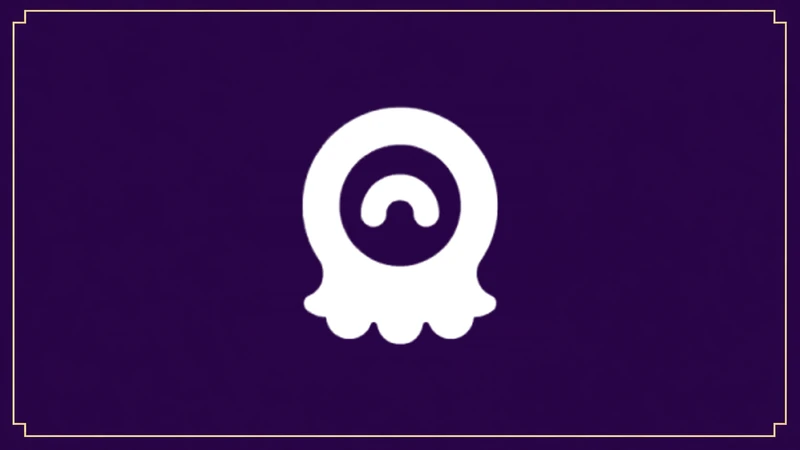
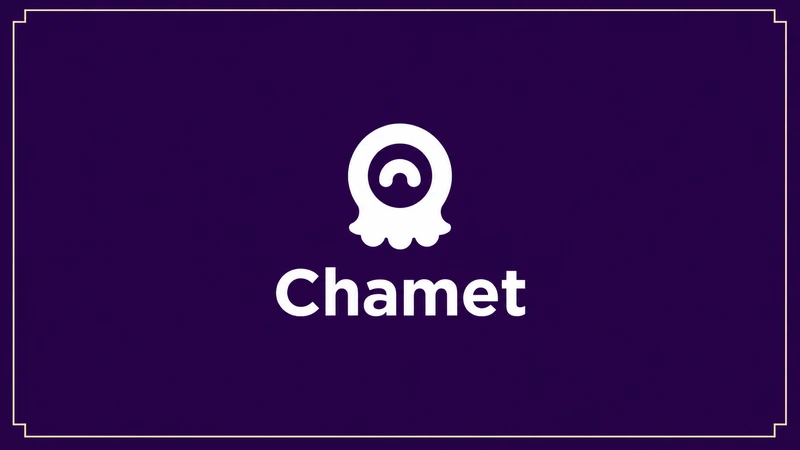
Add files via upload

diff --git a/index.html b/index.html
@@ -236,7 +236,7 @@ h1,h2,#special-request .special-request h3{min-width:0;max-width:100%;width:100%
 </div></header>
 <main>
 <section class="hero"><div class="wrap hero-content"><span class="eyebrow">TOPUPMOROCCO</span><h1><span data-ar="شحن الألعاب والبطاقات الرقمية" data-fr="Recharge de jeux et cartes digitales">شحن الألعاب والبطاقات الرقمية</span></h1><p><span data-ar="اختر المنتج والباقة، ثم أرسل الطلب مباشرة عبر واتساب أو تلغرام. خدمة سريعة وطرق دفع متنوعة." data-fr="Choisissez le produit et l’offre, puis envoyez votre commande via WhatsApp ou Telegram. Service rapide et plusieurs moyens de paiement.">اختر المنتج والباقة، ثم أرسل الطلب مباشرة عبر واتساب أو تلغرام. خدمة سريعة وطرق دفع متنوعة.</span></p><div class="hero-actions"><a class="primary" href="#products"><span data-ar="مشاهدة المنتجات" data-fr="Voir les produits">مشاهدة المنتجات</span></a></div></div></section>
-<section class="section" id="products"><div class="wrap"><div class="tm-proof"><a class="tm-proof-link" href="https://www.instagram.com/s/aGlnaGxpZ2h0OjE4MDQ0MzUwMDUyNjA0MjIy?igsi=OXU3N3lvbHhiemw0" target="_blank" rel="noopener noreferrer"><span class="tm-proof-label"><span class="tm-proof-icon"><svg viewBox="0 0 24 24" fill="none" stroke="currentColor" stroke-width="1.7" aria-hidden="true"><rect x="3" y="3" width="18" height="18" rx="5"/><circle cx="12" cy="12" r="4"/><circle cx="17.5" cy="6.5" r=".8" fill="currentColor" stroke="none"/></svg></span><span class="tm-proof-copy"><strong>طلبات زبنائنا المنجزة</strong></span></span><span class="tm-proof-cta">مشاهدة</span></a><a class="tm-orders-note" href="https://www.instagram.com/s/aGlnaGxpZ2h0OjE4MDQ0MzUwMDUyNjA0MjIy?igsi=OXU3N3lvbHhiemw0" target="_blank" rel="noopener noreferrer">اضغط هنا لمشاهدة بعض الطلبات المنفذة على صفحتنا في انستغرام</a></div><div class="heading"><em><span data-ar="خدماتنا" data-fr="Nos services">خدماتنا</span></em><h2><span data-ar="المنتجات المتاحة" data-fr="Produits disponibles">المنتجات المتاحة</span></h2><p><span data-ar="اضغط على المنتج لعرض الأسعار والطلب." data-fr="Cliquez sur un produit pour voir les prix et commander.">اضغط على المنتج لعرض الأسعار والطلب.</span></p></div><nav class="catalog-category-nav" aria-label="أقسام المنتجات"><a href="#topups"><span class="catalog-category-icon" aria-hidden="true">🎮</span><span data-ar="شحن الألعاب" data-fr="Recharges">شحن الألعاب</span></a><a href="#gift-cards"><span class="catalog-category-icon" aria-hidden="true">🎁</span><span data-ar="بطاقات الهدايا" data-fr="Cartes cadeaux">بطاقات الهدايا</span></a><a href="#game-codes"><span class="catalog-category-icon" aria-hidden="true">🔑</span><span data-ar="أكواد الألعاب" data-fr="Codes de jeux">أكواد الألعاب</span></a></nav><div class="search"><span>⌕</span><input aria-label="البحث عن منتج / Rechercher un produit" data-placeholder-ar="ابحث عن منتج..." data-placeholder-fr="Rechercher un produit..." id="search" placeholder="ابحث عن منتج..." type="search"/></div><p class="hidden" id="none" style="text-align:center;color:#ffc83d"><span data-ar="لا توجد منتجات مطابقة." data-fr="Aucun produit correspondant.">لا توجد منتجات مطابقة.</span></p><section class="catalog-category" id="topups" aria-labelledby="topupsTitle"><div class="heading catalog-section-heading"><h2 id="topupsTitle"><span data-ar="شحن الألعاب والتطبيقات" data-fr="Recharges de jeux et applications">شحن الألعاب والتطبيقات</span></h2></div><div class="grid" id="grid"><a aria-label="عرض باقات شحن Free Fire" class="card ff" data-search="free fire diamonds فري فاير جواهر" href="free-fire.html"><div class="card-top"><img alt="شحن جواهر فري فاير في المغرب - TopUpMorocco" class="product-art" decoding="async" loading="lazy" src="free-fire-800.webp" width="800" height="450" data-product-logo="free-fire"/></div><div class="card-body"><h3>Free Fire Diamonds</h3><p><span data-ar="شحن الجواهر مباشرة عن طريق ID اللاعب." data-fr="Recharge directe des diamants avec l’ID du joueur.">شحن الجواهر مباشرة عن طريق ID اللاعب.</span></p><span class="card-link"><span data-ar="عرض الباقات" data-fr="Voir les packs">عرض الباقات</span></span></div></a><a aria-label="Yalla Ludo" class="card yalla-ludo" data-search="Yalla Ludo Gold Diamonds يلا لودو ذهب ألماس شحن ID" href="yalla-ludo.html"><div class="card-top"><img alt="Yalla Ludo - TopUpMorocco" class="product-art" data-product-logo="yalla-ludo" decoding="async" height="450" loading="lazy" src="yalla-ludo-800.webp" width="800"/></div><div class="card-body"><h3>Yalla Ludo</h3><p>شحن الذهب والألماس عن طريق ID.</p><span class="card-link"><span data-ar="عرض الباقات" data-fr="Voir les packs">عرض الباقات</span></span></div></a><a aria-label="Chamet" class="card chamet" data-search="chamet diamonds diamants شاميت شامت ألماس الماس جواهر شحن ID" href="chamet.html"><div class="card-top"><img alt="Chamet - TopUpMorocco" class="product-art" data-product-logo="chamet" decoding="async" height="450" loading="lazy" src="chamet-800.webp" width="800"/></div><div class="card-body"><h3>Chamet</h3><p>شحن ألماس Chamet عبر معرّف الحساب.</p><span class="card-link"><span data-ar="عرض الباقات" data-fr="Voir les packs">عرض الباقات</span></span></div></a><a aria-label="MICO" class="card mico" data-search="mico diamonds pièces ميكو عملات شحن ID" href="mico.html"><div class="card-top"><img alt="MICO - TopUpMorocco" class="product-art" data-product-logo="mico" decoding="async" height="450" loading="lazy" src="mico-800.webp" width="800"/></div><div class="card-body"><h3>MICO</h3><p>شحن عملات MICO عبر معرّف الحساب.</p><span class="card-link"><span data-ar="عرض الباقات" data-fr="Voir les packs">عرض الباقات</span></span></div></a><a aria-label="شحن Monster Hunter Outlanders" class="card monster-hunter-outlanders" data-search="Monster Hunter Outlanders MHO مونستر هانتر اوتلاندرز شحن" href="monster-hunter-outlanders.html"><div class="card-top"><img alt="Monster Hunter Outlanders - TopUpMorocco" class="product-art" decoding="async" loading="lazy" src="monster-hunter-outlanders-800.webp" width="800" height="450"/></div></a><a class="card coc" data-search="Clash of Clans Gems Supercell ID كلاش اوف كلانس جواهر شحن" href="clash-of-clans.html" aria-label="Clash of Clans"><div class="card-top"><img alt="Clash of Clans - TopUpMorocco" class="product-art" decoding="async" loading="lazy" src="clash-of-clans-800.webp" width="800" height="450"/></div></a><a class="card brawl" data-search="Brawl Stars Gemmes Gems Pass Brawl Pass Plus Pro Pass Supercell ID براول ستارز جواهر شحن" href="brawl-stars.html" aria-label="Brawl Stars"><div class="card-top"><img alt="Brawl Stars - TopUpMorocco" class="product-art" decoding="async" loading="lazy" src="brawl-stars-800.webp?v=3" width="800" height="450"/></div></a><a class="card kingshot" data-search="Kingshot Gold Player ID كينج شوت كينغشوت ذهب شحن" href="kingshot.html" aria-label="Kingshot"><div class="card-top"><img alt="Kingshot - TopUpMorocco" class="product-art" decoding="async" loading="lazy" src="kingshot-800.webp" width="800" height="450"/></div></a><a class="card lords" data-search="Lords Mobile Diamonds Weekly Monthly Diamond Pass IGG ID لوردس موبايل جواهر شحن اشتراك" href="lords-mobile.html" aria-label="Lords Mobile"><div class="card-top"><img alt="Lords Mobile - TopUpMorocco" class="product-art" decoding="async" loading="lazy" src="lords-mobile-800.webp" width="800" height="450"/></div></a><a class="card sugo" data-search="SUGO Online Chat Party Coins سوجو سوغو عملات شحن" href="sugo.html" aria-label="SUGO – Online Chat Party"><div class="card-top"><img alt="SUGO Online Chat Party - TopUpMorocco" class="product-art" decoding="async" loading="lazy" src="sugo-800.webp" width="800" height="450"/></div></a><a class="card honkai" data-search="Honkai Star Rail Oneiric Shard Express Supply Pass Global هونكاي ستار ريل شحن" href="honkai-star-rail.html" aria-label="Honkai: Star Rail Global"><div class="card-top"><img alt="Honkai: Star Rail Global - TopUpMorocco" class="product-art" decoding="async" loading="lazy" src="honkai-star-rail-800.webp" width="800" height="450"/></div></a>
+<section class="section" id="products"><div class="wrap"><div class="tm-proof"><a class="tm-proof-link" href="https://www.instagram.com/s/aGlnaGxpZ2h0OjE4MDQ0MzUwMDUyNjA0MjIy?igsi=OXU3N3lvbHhiemw0" target="_blank" rel="noopener noreferrer"><span class="tm-proof-label"><span class="tm-proof-icon"><svg viewBox="0 0 24 24" fill="none" stroke="currentColor" stroke-width="1.7" aria-hidden="true"><rect x="3" y="3" width="18" height="18" rx="5"/><circle cx="12" cy="12" r="4"/><circle cx="17.5" cy="6.5" r=".8" fill="currentColor" stroke="none"/></svg></span><span class="tm-proof-copy"><strong>طلبات زبنائنا المنجزة</strong></span></span><span class="tm-proof-cta">مشاهدة</span></a><a class="tm-orders-note" href="https://www.instagram.com/s/aGlnaGxpZ2h0OjE4MDQ0MzUwMDUyNjA0MjIy?igsi=OXU3N3lvbHhiemw0" target="_blank" rel="noopener noreferrer">اضغط هنا لمشاهدة بعض الطلبات المنفذة على صفحتنا في انستغرام</a></div><div class="heading"><em><span data-ar="خدماتنا" data-fr="Nos services">خدماتنا</span></em><h2><span data-ar="المنتجات المتاحة" data-fr="Produits disponibles">المنتجات المتاحة</span></h2><p><span data-ar="اضغط على المنتج لعرض الأسعار والطلب." data-fr="Cliquez sur un produit pour voir les prix et commander.">اضغط على المنتج لعرض الأسعار والطلب.</span></p></div><nav class="catalog-category-nav" aria-label="أقسام المنتجات"><a href="#topups"><span class="catalog-category-icon" aria-hidden="true">🎮</span><span data-ar="شحن الألعاب" data-fr="Recharges">شحن الألعاب</span></a><a href="#gift-cards"><span class="catalog-category-icon" aria-hidden="true">🎁</span><span data-ar="بطاقات الهدايا" data-fr="Cartes cadeaux">بطاقات الهدايا</span></a><a href="#game-codes"><span class="catalog-category-icon" aria-hidden="true">🔑</span><span data-ar="أكواد الألعاب" data-fr="Codes de jeux">أكواد الألعاب</span></a></nav><div class="search"><span>⌕</span><input aria-label="البحث عن منتج / Rechercher un produit" data-placeholder-ar="ابحث عن منتج..." data-placeholder-fr="Rechercher un produit..." id="search" placeholder="ابحث عن منتج..." type="search"/></div><p class="hidden" id="none" style="text-align:center;color:#ffc83d"><span data-ar="لا توجد منتجات مطابقة." data-fr="Aucun produit correspondant.">لا توجد منتجات مطابقة.</span></p><section class="catalog-category" id="topups" aria-labelledby="topupsTitle"><div class="heading catalog-section-heading"><h2 id="topupsTitle"><span data-ar="شحن الألعاب والتطبيقات" data-fr="Recharges de jeux et applications">شحن الألعاب والتطبيقات</span></h2></div><div class="grid" id="grid"><a aria-label="عرض باقات شحن Free Fire" class="card ff" data-search="free fire diamonds فري فاير جواهر" href="free-fire.html"><div class="card-top"><img alt="شحن جواهر فري فاير في المغرب - TopUpMorocco" class="product-art" decoding="async" loading="lazy" src="free-fire-800.webp" width="800" height="450" data-product-logo="free-fire"/></div><div class="card-body"><h3>Free Fire Diamonds</h3><p><span data-ar="شحن الجواهر مباشرة عن طريق ID اللاعب." data-fr="Recharge directe des diamants avec l’ID du joueur.">شحن الجواهر مباشرة عن طريق ID اللاعب.</span></p><span class="card-link"><span data-ar="عرض الباقات" data-fr="Voir les packs">عرض الباقات</span></span></div></a><a aria-label="Yalla Ludo" class="card yalla-ludo" data-search="Yalla Ludo Gold Diamonds يلا لودو ذهب ألماس شحن ID" href="yalla-ludo.html"><div class="card-top"><img alt="Yalla Ludo - TopUpMorocco" class="product-art" data-product-logo="yalla-ludo" decoding="async" height="450" loading="lazy" src="yalla-ludo-800.webp" width="800"/></div><div class="card-body"><h3>Yalla Ludo</h3><p>شحن الذهب والألماس عن طريق ID.</p><span class="card-link"><span data-ar="عرض الباقات" data-fr="Voir les packs">عرض الباقات</span></span></div></a><a aria-label="Chamet" class="card chamet" data-search="chamet diamonds diamants شاميت شامت ألماس الماس جواهر شحن ID" href="chamet.html"><div class="card-top"><img alt="Chamet - TopUpMorocco" class="product-art" data-product-logo="chamet" decoding="async" height="450" loading="lazy" src="chamet-800.webp" width="800"/></div><div class="card-body"><h3>Chamet</h3><p>شحن ألماس Chamet عبر معرّف الحساب.</p><span class="card-link"><span data-ar="عرض الباقات" data-fr="Voir les packs">عرض الباقات</span></span></div></a><a aria-label="شحن Monster Hunter Outlanders" class="card monster-hunter-outlanders" data-search="Monster Hunter Outlanders MHO مونستر هانتر اوتلاندرز شحن" href="monster-hunter-outlanders.html"><div class="card-top"><img alt="Monster Hunter Outlanders - TopUpMorocco" class="product-art" decoding="async" loading="lazy" src="monster-hunter-outlanders-800.webp" width="800" height="450"/></div></a><a class="card coc" data-search="Clash of Clans Gems Supercell ID كلاش اوف كلانس جواهر شحن" href="clash-of-clans.html" aria-label="Clash of Clans"><div class="card-top"><img alt="Clash of Clans - TopUpMorocco" class="product-art" decoding="async" loading="lazy" src="clash-of-clans-800.webp" width="800" height="450"/></div></a><a class="card brawl" data-search="Brawl Stars Gemmes Gems Pass Brawl Pass Plus Pro Pass Supercell ID براول ستارز جواهر شحن" href="brawl-stars.html" aria-label="Brawl Stars"><div class="card-top"><img alt="Brawl Stars - TopUpMorocco" class="product-art" decoding="async" loading="lazy" src="brawl-stars-800.webp?v=3" width="800" height="450"/></div></a><a class="card kingshot" data-search="Kingshot Gold Player ID كينج شوت كينغشوت ذهب شحن" href="kingshot.html" aria-label="Kingshot"><div class="card-top"><img alt="Kingshot - TopUpMorocco" class="product-art" decoding="async" loading="lazy" src="kingshot-800.webp" width="800" height="450"/></div></a><a class="card lords" data-search="Lords Mobile Diamonds Weekly Monthly Diamond Pass IGG ID لوردس موبايل جواهر شحن اشتراك" href="lords-mobile.html" aria-label="Lords Mobile"><div class="card-top"><img alt="Lords Mobile - TopUpMorocco" class="product-art" decoding="async" loading="lazy" src="lords-mobile-800.webp" width="800" height="450"/></div></a><a class="card sugo" data-search="SUGO Online Chat Party Coins سوجو سوغو عملات شحن" href="sugo.html" aria-label="SUGO – Online Chat Party"><div class="card-top"><img alt="SUGO Online Chat Party - TopUpMorocco" class="product-art" decoding="async" loading="lazy" src="sugo-800.webp" width="800" height="450"/></div></a><a class="card honkai" data-search="Honkai Star Rail Oneiric Shard Express Supply Pass Global هونكاي ستار ريل شحن" href="honkai-star-rail.html" aria-label="Honkai: Star Rail Global"><div class="card-top"><img alt="Honkai: Star Rail Global - TopUpMorocco" class="product-art" decoding="async" loading="lazy" src="honkai-star-rail-800.webp" width="800" height="450"/></div></a>
 <a aria-label="عرض باقات Blood Strike" class="card blood-strike" data-search="blood strike gold deal pass بلاد سترايك بلود سترايك جولد شحن player id global" href="blood-strike.html"><div class="card-top"><img alt="Blood Strike Gold - TopUpMorocco" class="product-art" decoding="async" loading="lazy" src="blood-strike-800.webp" width="800" height="450" data-product-logo="blood-strike"/></div><div class="card-body"><h3 dir="ltr">BLOOD STRIKE</h3><p><span data-ar="شحن Gold وباقات Blood Strike عالميًا عبر Player ID فقط." data-fr="Recharge de Gold et d’offres Blood Strike dans le monde entier, via Player ID uniquement.">شحن Gold وباقات Blood Strike عالميًا عبر Player ID فقط.</span></p><span class="card-link"><span data-ar="عرض الباقات" data-fr="Voir les packs">عرض الباقات</span></span></div></a>
 <a aria-label="عرض عروض شحن PUBG MOBILE" class="card pubg" data-search="pubg mobile uc ببجي موبايل شدات elite pass prime global" href="pubg-mobile.html"><div class="card-top"><img alt="شحن شدات ببجي UC لحساب Global عبر Player ID - TopUpMorocco" class="product-art" decoding="async" loading="lazy" src="pubg-mobile-frame-unified.webp" width="800" height="450" data-product-logo="pubg-mobile"/></div><div class="card-body"><h3>PUBG MOBILE</h3><p><span data-ar="شحن شدات ببجي UC والاشتراكات مباشرة عبر Player ID." data-fr="Recharge d’UC et d’abonnements via Player ID.">شحن شدات ببجي UC والاشتراكات مباشرة عبر Player ID.</span></p><span class="card-link"><span data-ar="عرض العروض" data-fr="Voir les offres">عرض العروض</span></span></div></a>
 <a aria-label="عرض عروض شحن Mobile Legends" class="card mobile-legends" data-search="mobile legends bang bang mlbb موبايل ليجند ألماس diamonds weekly elite pack weekly diamond pass monthly elite pack twilight pass" href="mobile-legends.html"><div class="card-top"><img alt="شحن ألماس Mobile Legends عبر Player ID وServer ID - TopUpMorocco" class="product-art" decoding="async" loading="lazy" src="mobile-legends-800.webp" width="800" height="450" data-product-logo="mobile-legends"/></div><div class="card-body"><h3>Mobile Legends</h3><p><span data-ar="شحن الألماس والاشتراكات مباشرة عبر Player ID وServer ID." data-fr="Recharge de diamants et d’abonnements via Player ID et Server ID.">شحن الألماس والاشتراكات مباشرة عبر Player ID وServer ID.</span></p><span class="card-link"><span data-ar="عرض العروض" data-fr="Voir les offres">عرض العروض</span></span></div></a>

diff --git a/chamet.html b/chamet.html
@@ -166,8 +166,8 @@ h1,h2,#special-request .special-request h3{min-width:0;max-width:100%;width:100%
 </style><link href="trust-refresh.css" rel="stylesheet"/><style>.chamet-activation{margin:0 auto 32px;padding:24px;line-height:1.9}.chamet-activation h2{margin:0 0 12px;font-size:24px}.chamet-activation p{margin:8px 0;color:#c7cde0}.chamet-activation a{color:#be95ff;unicode-bidi:isolate}</style><style>.battle-regions{display:grid;grid-template-columns:1fr 1fr;gap:12px;margin-bottom:16px}.battle-regions button{border:1px solid #334769;border-radius:14px;background:#10182d;color:#fff;padding:16px 10px;font-weight:700;cursor:pointer}.battle-regions button[aria-pressed="true"]{border-color:#aa6cff;background:#29194b;box-shadow:0 0 0 2px #aa6cff25}.battle-note{color:#bec9dc;line-height:1.8;font-size:15px;margin:0 0 20px}.packs [hidden]{display:none!important}.pack-category{text-align:center!important}.hero h1{font-size:clamp(25px,4.6vw,48px)}</style><style>.chamet-activation h2,.chamet-activation p{text-align:center!important}</style><style>.player-id-field{margin:0 0 24px}.player-id-field label{display:block;margin-bottom:10px;font-weight:700}.player-id-field input{box-sizing:border-box;width:100%;padding:16px;border:1px solid #334769;border-radius:14px;background:#0a1120;color:#fff;font:inherit}.pack-category{text-align:center!important}.pack b{unicode-bidi:isolate}.pack span{white-space:nowrap}</style><style>#chamet-id-help{margin:.55rem 0 0;color:#b9c3d9;font-size:.9rem}</style></head><body><header class="topbar"><a class="brand" href="/">TOPUP <span>MOROCCO</span></a><div class="language-switcher">
 <a aria-current="page" aria-label="العربية" class="language-link active" href="/chamet.html" hreflang="ar-MA" lang="ar" title="العربية">🇲🇦</a>
 <a aria-label="Français" class="language-link" href="/fr/chamet.html" hreflang="fr-MA" lang="fr" title="Français">🇫🇷</a>
-</div></header><main><div class="wrap breadcrumb"><a href="/"><span data-ar="الرئيسية" data-fr="Accueil">الرئيسية</span></a> ← Chamet</div><section class="hero"><div class="wrap"><div class="hero-card"><div class="copy"><h1><bdi dir="ltr">Chamet</bdi></h1><p>اختر باقة الألماس. يصلك الشحن مباشرة إلى حسابك عبر معرّف Chamet.</p></div><div aria-label="Chamet" class="visual"><img alt="شحن ألماس Chamet" class="product-art-page" decoding="async" fetchpriority="high" height="941" sizes="(max-width: 760px) calc(100vw - 56px), 540px" src="chamet-800.webp" srcset="chamet-800.webp 800w, chamet.webp 1672w" width="1672"/></div></div></div></section><section class="section"><div class="wrap"><div class="heading"><em><span data-ar="العروض المتاحة" data-fr="Offres disponibles">العروض المتاحة</span></em><h2>اختر باقة الألماس</h2><p><span data-ar="الأسعار بالدرهم المغربي." data-fr="Prix en dirhams marocains.">الأسعار بالدرهم المغربي.</span></p></div><div class="order-panel"><div class="panel">
-<div class="player-id-field"><label for="playerId">معرّف حساب Chamet</label><input aria-describedby="chamet-id-help" autocomplete="off" dir="ltr" id="playerId" inputmode="numeric" placeholder="ID" required="" type="text"/><p id="chamet-id-help">تلقى معرّف الحساب فصفحتك الشخصية داخل تطبيق Chamet.</p></div><div class="packs" id="packs"><button aria-pressed="false" class="pack" data-value="62,500 ألماس — 120 DH" type="button"><b dir="rtl"><bdi dir="ltr">62,500</bdi> ألماس</b><span dir="ltr">120 DH</span></button><button aria-pressed="false" class="pack" data-value="187,500 ألماس — 360 DH" type="button"><b dir="rtl"><bdi dir="ltr">187,500</bdi> ألماس</b><span dir="ltr">360 DH</span></button><button aria-pressed="false" class="pack" data-value="625,000 ألماس — 1,180 DH" type="button"><b dir="rtl"><bdi dir="ltr">625,000</bdi> ألماس</b><span dir="ltr">1,180 DH</span></button><button aria-pressed="false" class="pack" data-value="1,875,000 ألماس — 3,540 DH" type="button"><b dir="rtl"><bdi dir="ltr">1,875,000</bdi> ألماس</b><span dir="ltr">3,540 DH</span></button></div><div class="bulk" dir="rtl"><strong>خصومات خاصة للطلبات الكبيرة.</strong><p>تواصل معنا عبر واتساب.</p></div></div><aside class="panel"><p class="order-options-label"><span data-ar="اطلب عبر واتساب أو تلغرام" data-fr="Commandez via WhatsApp ou Telegram">اطلب عبر واتساب أو تلغرام</span></p><div aria-label="اختر واتساب أو تلغرام" class="order-actions" role="group"><button aria-label="اطلب عبر واتساب" class="order order-whatsapp" data-channel="whatsapp" id="order" type="button"><svg aria-hidden="true" viewbox="0 0 24 24"><path d="M12 2a9.84 9.84 0 0 0-8.42 14.93L2 22l5.2-1.52A9.93 9.93 0 1 0 12 2Zm0 17.98a8 8 0 0 1-4.08-1.12l-.29-.17-3.08.9.92-3-.19-.31A8 8 0 1 1 12 19.98Zm4.39-5.98c-.24-.12-1.42-.7-1.64-.78-.22-.08-.38-.12-.54.12-.16.24-.62.78-.76.94-.14.16-.28.18-.52.06-.24-.12-1.01-.37-1.93-1.19-.71-.64-1.2-1.42-1.34-1.66-.14-.24-.01-.37.1-.49.11-.11.24-.28.36-.42.12-.14.16-.24.24-.4.08-.16.04-.3-.02-.42-.06-.12-.54-1.3-.74-1.78-.2-.47-.4-.41-.54-.42h-.46c-.16 0-.42.06-.64.3-.22.24-.84.82-.84 2 0 1.18.86 2.32.98 2.48.12.16 1.69 2.58 4.1 3.62.57.25 1.02.4 1.37.51.58.18 1.1.16 1.51.1.46-.07 1.42-.58 1.62-1.14.2-.56.2-1.04.14-1.14-.06-.1-.22-.16-.46-.28Z"></path></svg><span data-ar="واتساب" data-fr="WhatsApp">واتساب</span></button><button aria-label="اطلب عبر تلغرام" class="order order-telegram" data-channel="telegram" id="orderTelegram" type="button"><svg aria-hidden="true" viewbox="0 0 24 24"><path d="M21.6 2.4 2.9 9.6c-1.3.5-1.3 1.2-.2 1.5l4.8 1.5 1.8 5.6c.2.7.1 1 .9 1l2.7-2.6 5.6 4.1c1 .6 1.7.3 2-.9L24 3.6c.4-1.7-.6-2.5-2.4-1.2ZM9.4 12.3l9.4-5.9c.5-.3.9-.1.5.2l-7.7 7-.3 3.6-1.9-4.9Z"></path></svg><span data-ar="تلغرام" data-fr="Telegram">تلغرام</span></button></div><p class="msg" id="msg" role="status"></p><p class="note"><span data-ar="سيتم فتح التطبيق الذي تختاره برسالة جاهزة تتضمن المنتج والعرض المختار." data-fr="L’application choisie s’ouvrira avec un message contenant le produit et l’offre choisis.">سيتم فتح التطبيق الذي تختاره برسالة جاهزة تتضمن المنتج والعرض المختار.</span></p><ul class="features"><li><span data-ar="⚡ إرسال الطلب بخطوات قليلة" data-fr="⚡ Commande en quelques étapes">⚡ إرسال الطلب بخطوات قليلة</span></li><li><span data-ar="🛡 مراجعة الطلب قبل التسليم" data-fr="🛡 Vérification de la commande avant livraison">🛡 مراجعة الطلب قبل التسليم</span></li><li><span data-ar="💬 متابعة مباشرة عبر واتساب أو تلغرام" data-fr="💬 Suivi direct via WhatsApp ou Telegram">💬 متابعة مباشرة عبر واتساب أو تلغرام</span></li></ul></aside></div></div></section>
+</div></header><main><div class="wrap breadcrumb"><a href="/"><span data-ar="الرئيسية" data-fr="Accueil">الرئيسية</span></a> ← Chamet</div><section class="hero"><div class="wrap"><div class="hero-card"><div class="copy"><h1><bdi dir="ltr">Chamet</bdi></h1><p>اختر باقة الألماس. يصلك الشحن مباشرة إلى حسابك عبر معرّف Chamet.</p></div><div aria-label="Chamet" class="visual"><img alt="شحن ألماس Chamet" class="product-art-page" decoding="async" fetchpriority="high" height="941" sizes="(max-width: 760px) calc(100vw - 56px), 540px" src="chamet-800.webp" srcset="chamet-800.webp 800w, chamet.webp 1672w" width="1672"/></div></div></div></section><section class="section"><div class="wrap"><div class="heading"><em><span data-ar="العروض المتاحة" data-fr="Offres disponibles">العروض المتاحة</span></em><h2>الألماس</h2><p><span data-ar="الأسعار بالدرهم المغربي." data-fr="Prix en dirhams marocains.">الأسعار بالدرهم المغربي.</span></p></div><div class="order-panel"><div class="panel">
+<div class="player-id-field"><label for="playerId">معرّف حساب Chamet</label><input aria-describedby="chamet-id-help" autocomplete="off" dir="ltr" id="playerId" inputmode="numeric" placeholder="ID" required="" type="text"/><p id="chamet-id-help">تلقى معرّف الحساب فصفحتك الشخصية داخل تطبيق Chamet.</p></div><div class="packs" id="packs"><button aria-pressed="false" class="pack" data-value="62,500 ألماس — 120 DH" type="button"><b dir="rtl"><bdi dir="ltr">62,500</bdi></b><span dir="ltr">120 DH</span></button><button aria-pressed="false" class="pack" data-value="187,500 ألماس — 360 DH" type="button"><b dir="rtl"><bdi dir="ltr">187,500</bdi></b><span dir="ltr">360 DH</span></button><button aria-pressed="false" class="pack" data-value="625,000 ألماس — 1,180 DH" type="button"><b dir="rtl"><bdi dir="ltr">625,000</bdi></b><span dir="ltr">1,180 DH</span></button><button aria-pressed="false" class="pack" data-value="1,875,000 ألماس — 3,540 DH" type="button"><b dir="rtl"><bdi dir="ltr">1,875,000</bdi></b><span dir="ltr">3,540 DH</span></button></div><div class="bulk" dir="rtl"><strong>خصومات خاصة للطلبات الكبيرة.</strong><p>تواصل معنا عبر واتساب.</p></div></div><aside class="panel"><p class="order-options-label"><span data-ar="اطلب عبر واتساب أو تلغرام" data-fr="Commandez via WhatsApp ou Telegram">اطلب عبر واتساب أو تلغرام</span></p><div aria-label="اختر واتساب أو تلغرام" class="order-actions" role="group"><button aria-label="اطلب عبر واتساب" class="order order-whatsapp" data-channel="whatsapp" id="order" type="button"><svg aria-hidden="true" viewbox="0 0 24 24"><path d="M12 2a9.84 9.84 0 0 0-8.42 14.93L2 22l5.2-1.52A9.93 9.93 0 1 0 12 2Zm0 17.98a8 8 0 0 1-4.08-1.12l-.29-.17-3.08.9.92-3-.19-.31A8 8 0 1 1 12 19.98Zm4.39-5.98c-.24-.12-1.42-.7-1.64-.78-.22-.08-.38-.12-.54.12-.16.24-.62.78-.76.94-.14.16-.28.18-.52.06-.24-.12-1.01-.37-1.93-1.19-.71-.64-1.2-1.42-1.34-1.66-.14-.24-.01-.37.1-.49.11-.11.24-.28.36-.42.12-.14.16-.24.24-.4.08-.16.04-.3-.02-.42-.06-.12-.54-1.3-.74-1.78-.2-.47-.4-.41-.54-.42h-.46c-.16 0-.42.06-.64.3-.22.24-.84.82-.84 2 0 1.18.86 2.32.98 2.48.12.16 1.69 2.58 4.1 3.62.57.25 1.02.4 1.37.51.58.18 1.1.16 1.51.1.46-.07 1.42-.58 1.62-1.14.2-.56.2-1.04.14-1.14-.06-.1-.22-.16-.46-.28Z"></path></svg><span data-ar="واتساب" data-fr="WhatsApp">واتساب</span></button><button aria-label="اطلب عبر تلغرام" class="order order-telegram" data-channel="telegram" id="orderTelegram" type="button"><svg aria-hidden="true" viewbox="0 0 24 24"><path d="M21.6 2.4 2.9 9.6c-1.3.5-1.3 1.2-.2 1.5l4.8 1.5 1.8 5.6c.2.7.1 1 .9 1l2.7-2.6 5.6 4.1c1 .6 1.7.3 2-.9L24 3.6c.4-1.7-.6-2.5-2.4-1.2ZM9.4 12.3l9.4-5.9c.5-.3.9-.1.5.2l-7.7 7-.3 3.6-1.9-4.9Z"></path></svg><span data-ar="تلغرام" data-fr="Telegram">تلغرام</span></button></div><p class="msg" id="msg" role="status"></p><p class="note"><span data-ar="سيتم فتح التطبيق الذي تختاره برسالة جاهزة تتضمن المنتج والعرض المختار." data-fr="L’application choisie s’ouvrira avec un message contenant le produit et l’offre choisis.">سيتم فتح التطبيق الذي تختاره برسالة جاهزة تتضمن المنتج والعرض المختار.</span></p><ul class="features"><li><span data-ar="⚡ إرسال الطلب بخطوات قليلة" data-fr="⚡ Commande en quelques étapes">⚡ إرسال الطلب بخطوات قليلة</span></li><li><span data-ar="🛡 مراجعة الطلب قبل التسليم" data-fr="🛡 Vérification de la commande avant livraison">🛡 مراجعة الطلب قبل التسليم</span></li><li><span data-ar="💬 متابعة مباشرة عبر واتساب أو تلغرام" data-fr="💬 Suivi direct via WhatsApp ou Telegram">💬 متابعة مباشرة عبر واتساب أو تلغرام</span></li></ul></aside></div></div></section>
 <section aria-labelledby="related-products-title" class="related-products">
 <h2 id="related-products-title"><span data-ar="قد يهمك أيضًا" data-fr="Vous pourriez aussi aimer">قد يهمك أيضًا</span></h2>
 <div class="related-products-grid">
